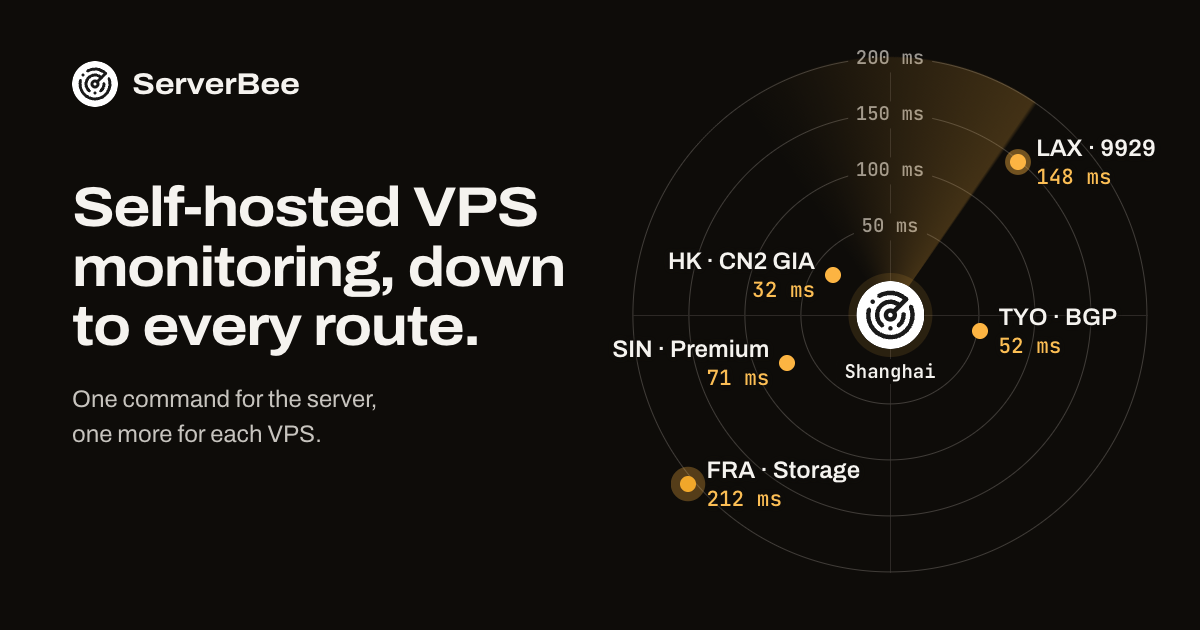
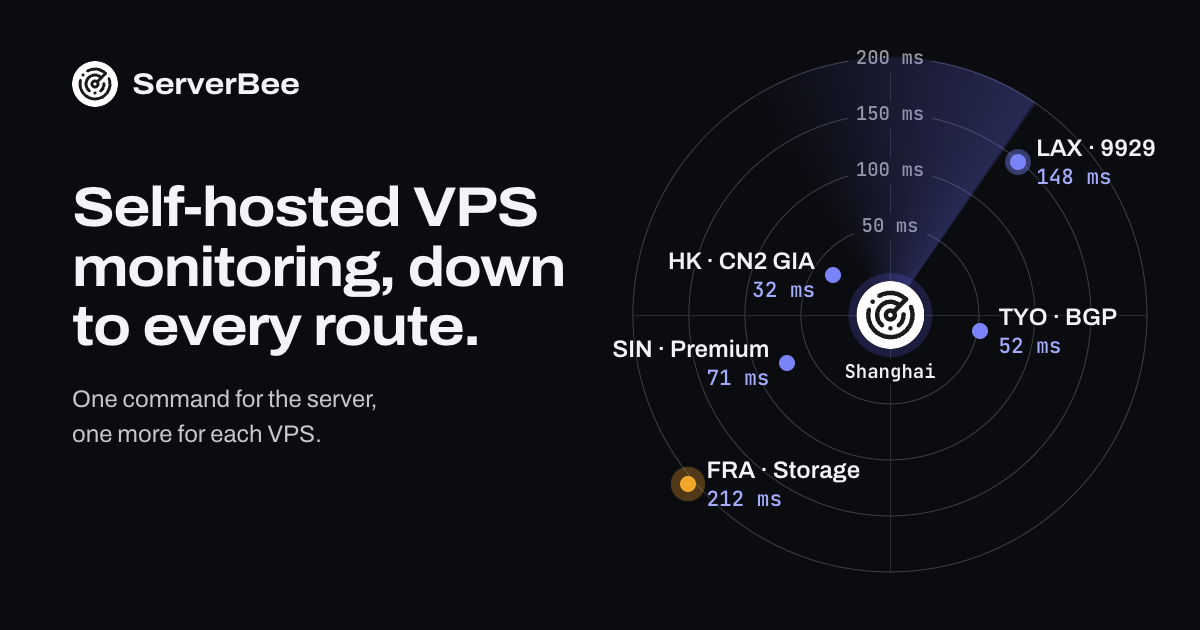
style(docs): switch the landing accent from amber to indigo
The accent moves to indigo with cool neutrals in both palettes, and the
tokens are renamed from --amber* to --accent*. Hover fills darken in
both themes so white button text keeps at least 4.5:1, and buttons get
their own offset focus ring because the browser's default blue ring has
about the luminance of the light indigo fill. The Open Graph cards are
re-rendered in the dark indigo palette.

diff --git a/apps/docs/src/styles/landing.css b/apps/docs/src/styles/landing.css
@@ -168,16 +168,16 @@
 /* The design paints html and body with the page ground; follow the landing palette so overscroll matches. */
 :root:has(.sb) {
   color-scheme: light;
-  background: oklch(0.975 0.005 85);
+  background: oklch(0.98 0.004 270);
 }
 :root.dark:has(.sb) {
   color-scheme: dark;
-  background: oklch(0.155 0.006 70);
+  background: oklch(0.155 0.009 272);
 }
 @media (prefers-color-scheme: dark) {
   :root:not(.light):not(.dark):has(.sb) {
     color-scheme: dark;
-    background: oklch(0.155 0.006 70);
+    background: oklch(0.155 0.009 272);
   }
 }
 
@@ -203,43 +203,44 @@
   background: var(--bg);
 }
 
-/* Palettes. Light is the default; the dark palette (warm near-black ground, amber accent) follows the docs theme
+/* Palettes. Light is the default; the dark palette (cool near-black ground, indigo accent) follows the docs theme
    class that next-themes sets on <html>, and prefers-color-scheme stands in when no class is set (no JavaScript).
-   landing-mocks.css switches the product palettes on the same conditions. */
+   landing-mocks.css switches the product palettes on the same conditions. Accent fills carry white text, so the
+   hover fill (--accent-hi) darkens in both palettes to keep that text at 4.5:1 or more. */
 .sb {
-  --bg: oklch(0.975 0.005 85);
-  --bg-2: oklch(0.955 0.007 82);
-  --bg-3: oklch(0.93 0.008 80);
-  --line: oklch(0.89 0.009 80);
-  --line-2: oklch(0.8 0.01 78);
-  --ink: oklch(0.2 0.012 65);
-  --ink-2: oklch(0.34 0.012 65);
-  --ink-3: oklch(0.47 0.012 65);
-  --amber: oklch(0.82 0.15 75);
-  --amber-hi: oklch(0.78 0.15 72);
-  --amber-ink: oklch(0.5 0.12 62);
-  --amber-soft: oklch(0.82 0.15 75 / 0.16);
-  --on-amber: oklch(0.2 0.03 60);
+  --bg: oklch(0.98 0.004 270);
+  --bg-2: oklch(0.962 0.005 270);
+  --bg-3: oklch(0.938 0.006 270);
+  --line: oklch(0.898 0.007 270);
+  --line-2: oklch(0.81 0.008 270);
+  --ink: oklch(0.2 0.012 270);
+  --ink-2: oklch(0.35 0.012 270);
+  --ink-3: oklch(0.475 0.011 270);
+  --accent: oklch(0.52 0.22 277);
+  --accent-hi: oklch(0.465 0.21 277);
+  --accent-ink: oklch(0.5 0.2 277);
+  --accent-soft: oklch(0.52 0.22 277 / 0.12);
+  --on-accent: oklch(0.99 0 0);
   --shadow-lg:
-    0 40px 80px -36px oklch(0.3 0.03 60 / 0.35),
-    0 0 0 1px oklch(0.3 0.02 60 / 0.08);
-  --shadow-md: 0 18px 40px -20px oklch(0.3 0.03 60 / 0.35);
+    0 40px 80px -36px oklch(0.3 0.03 270 / 0.3),
+    0 0 0 1px oklch(0.3 0.02 270 / 0.08);
+  --shadow-md: 0 18px 40px -20px oklch(0.3 0.03 270 / 0.3);
   color-scheme: light;
 }
 :root.dark .sb {
-  --bg: oklch(0.155 0.006 70);
-  --bg-2: oklch(0.183 0.007 70);
-  --bg-3: oklch(0.215 0.008 70);
-  --line: oklch(0.285 0.008 70);
-  --line-2: oklch(0.36 0.009 70);
-  --ink: oklch(0.965 0.006 85);
-  --ink-2: oklch(0.82 0.008 80);
-  --ink-3: oklch(0.68 0.009 75);
-  --amber: oklch(0.82 0.15 75);
-  --amber-hi: oklch(0.87 0.14 80);
-  --amber-ink: oklch(0.84 0.14 78);
-  --amber-soft: oklch(0.82 0.15 75 / 0.12);
-  --on-amber: oklch(0.2 0.03 60);
+  --bg: oklch(0.155 0.009 272);
+  --bg-2: oklch(0.185 0.01 272);
+  --bg-3: oklch(0.218 0.01 272);
+  --line: oklch(0.29 0.01 272);
+  --line-2: oklch(0.37 0.012 272);
+  --ink: oklch(0.968 0.004 272);
+  --ink-2: oklch(0.83 0.007 272);
+  --ink-3: oklch(0.69 0.009 272);
+  --accent: oklch(0.56 0.2 277);
+  --accent-hi: oklch(0.51 0.2 277);
+  --accent-ink: oklch(0.77 0.118 279);
+  --accent-soft: oklch(0.56 0.2 277 / 0.22);
+  --on-accent: oklch(0.99 0 0);
   --shadow-lg:
     0 40px 80px -32px oklch(0 0 0 / 0.75), 0 0 0 1px oklch(1 0 0 / 0.06);
   --shadow-md: 0 18px 40px -18px oklch(0 0 0 / 0.7);
@@ -247,19 +248,19 @@
 }
 @media (prefers-color-scheme: dark) {
   :root:not(.light):not(.dark) .sb {
-    --bg: oklch(0.155 0.006 70);
-    --bg-2: oklch(0.183 0.007 70);
-    --bg-3: oklch(0.215 0.008 70);
-    --line: oklch(0.285 0.008 70);
-    --line-2: oklch(0.36 0.009 70);
-    --ink: oklch(0.965 0.006 85);
-    --ink-2: oklch(0.82 0.008 80);
-    --ink-3: oklch(0.68 0.009 75);
-    --amber: oklch(0.82 0.15 75);
-    --amber-hi: oklch(0.87 0.14 80);
-    --amber-ink: oklch(0.84 0.14 78);
-    --amber-soft: oklch(0.82 0.15 75 / 0.12);
-    --on-amber: oklch(0.2 0.03 60);
+    --bg: oklch(0.155 0.009 272);
+    --bg-2: oklch(0.185 0.01 272);
+    --bg-3: oklch(0.218 0.01 272);
+    --line: oklch(0.29 0.01 272);
+    --line-2: oklch(0.37 0.012 272);
+    --ink: oklch(0.968 0.004 272);
+    --ink-2: oklch(0.83 0.007 272);
+    --ink-3: oklch(0.69 0.009 272);
+    --accent: oklch(0.56 0.2 277);
+    --accent-hi: oklch(0.51 0.2 277);
+    --accent-ink: oklch(0.77 0.118 279);
+    --accent-soft: oklch(0.56 0.2 277 / 0.22);
+    --on-accent: oklch(0.99 0 0);
     --shadow-lg:
       0 40px 80px -32px oklch(0 0 0 / 0.75), 0 0 0 1px oklch(1 0 0 / 0.06);
     --shadow-md: 0 18px 40px -18px oklch(0 0 0 / 0.7);
@@ -269,7 +270,7 @@
 
 /* The design's page-wide link colors, scoped to the landing. */
 .sb a {
-  color: var(--amber-ink);
+  color: var(--accent-ink);
 }
 .sb a:hover {
   color: var(--ink);
@@ -380,12 +381,12 @@
     color 0.15s;
 }
 .sb .btn-primary {
-  color: var(--on-amber);
-  background: var(--amber);
+  color: var(--on-accent);
+  background: var(--accent);
 }
 .sb .btn-primary:hover {
-  color: var(--on-amber);
-  background: var(--amber-hi);
+  color: var(--on-accent);
+  background: var(--accent-hi);
 }
 .sb .btn-ghost {
   color: var(--ink);
@@ -395,6 +396,12 @@
 .sb .btn-ghost:hover {
   color: var(--ink);
   background: var(--bg-3);
+}
+/* An own ring with a gap: the browser's default blue ring has about the luminance of the light accent fill and sits
+   flush against it, so a focused primary button would barely change. */
+.sb .btn:focus-visible {
+  outline: 2px solid var(--accent-ink);
+  outline-offset: 2px;
 }
 .sb .btn-sm {
   height: 36px;
@@ -449,7 +456,7 @@
   margin-top: 28px;
   font-size: 15px;
   font-weight: 600;
-  color: var(--amber-ink);
+  color: var(--accent-ink);
   text-decoration: none;
 }
 .sb .more-link:hover {
@@ -615,12 +622,12 @@
 .sb .release-dot {
   width: 7px;
   height: 7px;
-  background: var(--amber);
+  background: var(--accent);
   border-radius: 50%;
-  box-shadow: 0 0 0 3px var(--amber-soft);
+  box-shadow: 0 0 0 3px var(--accent-soft);
 }
 .sb .release-link {
-  color: var(--amber-ink);
+  color: var(--accent-ink);
 }
 .sb .hero-sub {
   max-width: 33em;
@@ -670,7 +677,7 @@
 }
 .sb .ins-tab.on {
   color: var(--ink);
-  border-bottom-color: var(--amber);
+  border-bottom-color: var(--accent);
 }
 .sb .ins-copy {
   display: inline-flex;
@@ -714,7 +721,7 @@
 .sb .ins-cmd > b {
   margin-right: 0.6em;
   font-weight: 500;
-  color: var(--amber-ink);
+  color: var(--accent-ink);
   user-select: none;
 }
 /* Commands render as unbreakable segments: lines break only at the spaces between them and at the <wbr> after a URL
@@ -761,7 +768,7 @@
   width: 5px;
   height: 5px;
   content: "";
-  background: var(--amber);
+  background: var(--accent);
   border-radius: 50%;
 }
 
@@ -919,8 +926,8 @@
   padding: 6px 12px;
   margin-top: 20px;
   font: 600 13px / 1.3 var(--f-mono);
-  color: var(--amber-ink);
-  background: var(--amber-soft);
+  color: var(--accent-ink);
+  background: var(--accent-soft);
   border-radius: 999px;
 }
 
@@ -1036,8 +1043,8 @@
   color: var(--ink-3);
 }
 .sb .arch-srv {
-  border-color: var(--amber);
-  box-shadow: 0 0 0 4px var(--amber-soft);
+  border-color: var(--accent);
+  box-shadow: 0 0 0 4px var(--accent-soft);
 }
 .sb .arch-srv .arch-list > li {
   justify-content: flex-start;
@@ -1067,7 +1074,7 @@
   z-index: 1;
   padding: 3px 8px;
   font: 600 12px / 1.3 var(--f-mono);
-  color: var(--amber-ink);
+  color: var(--accent-ink);
   background: var(--bg-2);
   border-radius: 6px;
 }
@@ -1127,8 +1134,8 @@
   width: 28px;
   height: 28px;
   font: 700 14px / 1 var(--f-mono);
-  color: var(--on-amber);
-  background: var(--amber);
+  color: var(--on-accent);
+  background: var(--accent);
   border-radius: 50%;
 }
 .sb .step-t {
@@ -1178,7 +1185,7 @@
   margin-left: 4px;
   font: 600 12px / 1 var(--f-mono);
   vertical-align: super;
-  color: var(--amber-ink);
+  color: var(--accent-ink);
 }
 .sb .stat-l {
   margin-top: 6px;
@@ -1301,7 +1308,7 @@
   height: 56px;
   margin: 0 auto 26px;
   border-radius: 50%;
-  box-shadow: 0 0 0 8px var(--amber-soft);
+  box-shadow: 0 0 0 8px var(--accent-soft);
 }
 .sb .final .h2 {
   font-size: clamp(30px, 3.6vw, 50px);
